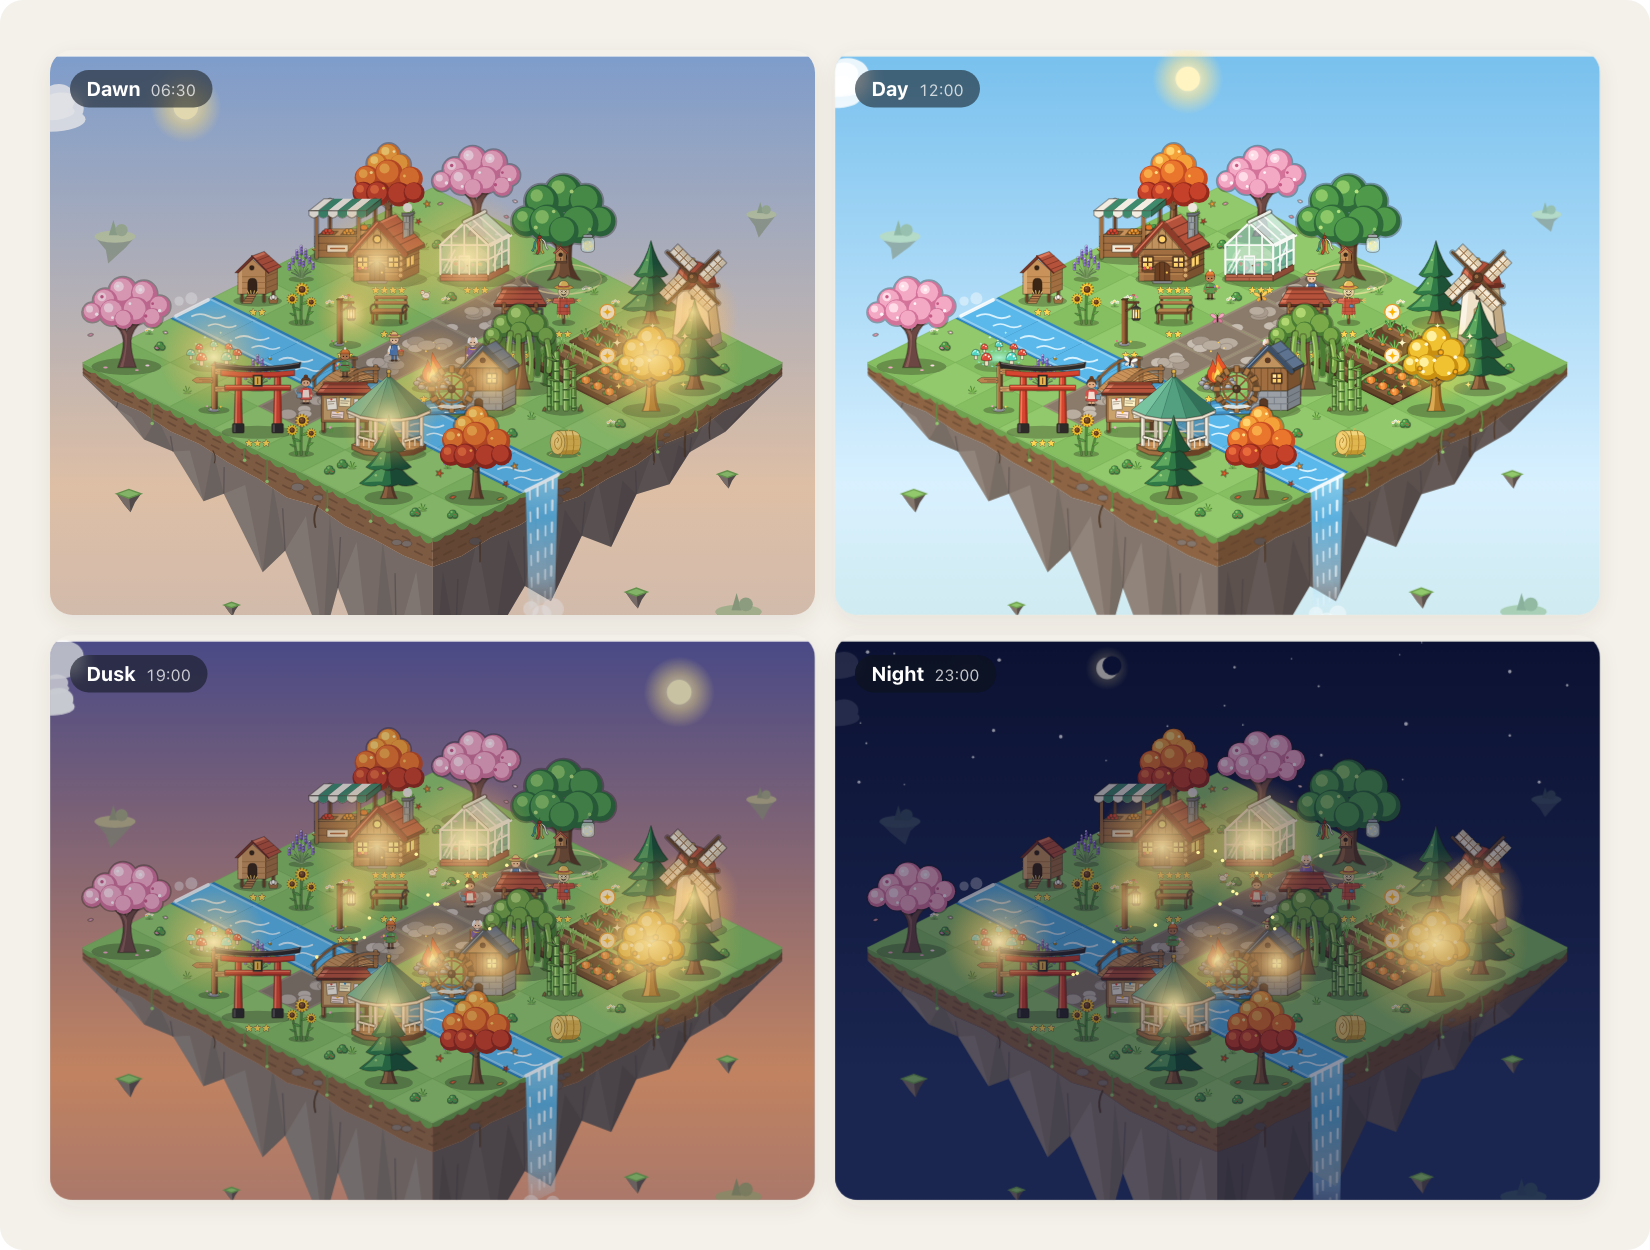
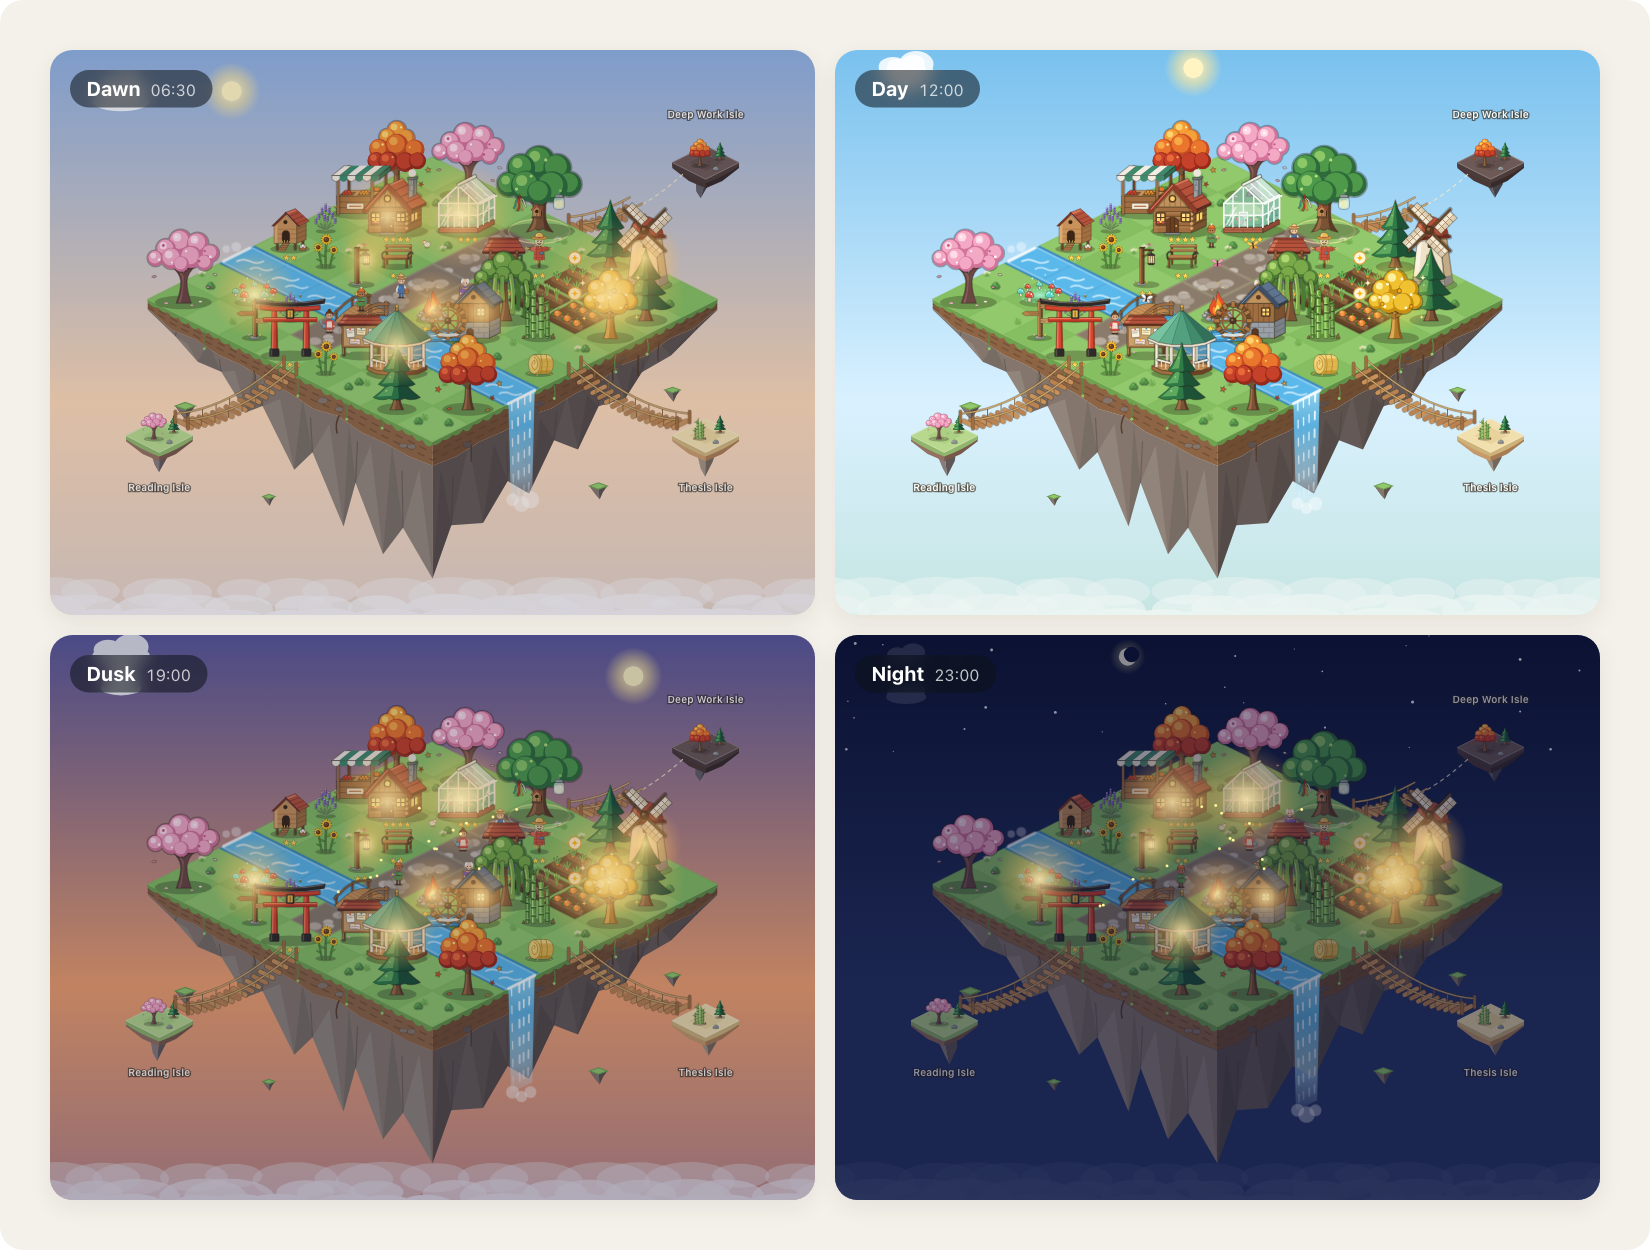
docs: carry the islands through the how-it-works strip and the day cycle
The how-it-works strip gains a fifth step, Explore, showing the bridge
being built toward the next island. The day-to-night animation and the
day-cycle still now show the whole floating village with its rope
bridges and neighbouring isles, as the full-page view does.

Also fixes the screenshot harness, which had rendered the timer without
its dial since the subtasks change: the timer now reads tasks and the
tracker as stores, and the harness passed plain objects.

diff --git a/scripts/readme-images/marketing.ts b/scripts/readme-images/marketing.ts
@@ -9,6 +9,7 @@ import { readable } from 'svelte/store'
 import TimerViewComponent from '../../src/TimerViewComponent.svelte'
 import { activePlantStore } from '../../src/stores'
 import { renderVillage, skyFor } from '../../src/render/VillageScene'
+import { renderArchipelago } from '../../src/render/ArchipelagoMap'
 import { islandLinks } from '../../src/services/Islands'
 import { ICONS, SPECIES_SVGS, VILLAGER_SVGS } from '../../src/assets/floraAssets'
 import { charterLandmark, getBuilding } from '../../src/assets/floraCatalog'
@@ -22,6 +23,9 @@ import { perkTag, stars } from './perk-tags'
 export const MARKETING_SCENES = ['hero', 'loop', 'charter', 'dial']
 
 const COUNT = 25 * 60_000
+/** The timer reads both as stores; the marketing scenes have no task list and no task in focus. */
+export const NO_TASKS = readable({ groups: [], list: [] }) as any
+export const NO_TRACKER = readable({}) as any
 const stageFor = (r: number) => (r >= 0.75 ? 'mature' : r >= 0.5 ? 'sapling' : r >= 0.25 ? 'sprout' : 'seed')
 
 /** Mounts the real timer component and lifts its dial into `slot`. */
@@ -34,7 +38,7 @@ function mountDial(slot: HTMLElement, ratio: number, speciesId = 'sakura') {
     const holder = document.createElement('div')
     holder.style.cssText = 'position:absolute;left:-9999px;top:0;width:356px'
     document.body.appendChild(holder)
-    new TimerViewComponent({ target: holder, props: { timer: timer as any, tasks: {} as any, tracker: {} as any, render: () => {} } })
+    new TimerViewComponent({ target: holder, props: { timer: timer as any, tasks: NO_TASKS, tracker: NO_TRACKER, render: () => {} } })
     slot.appendChild(holder.querySelector('.dial')!)
 }
 
@@ -162,34 +166,40 @@ export function mountMarketing(scene: string, q: URLSearchParams, g: Gamificatio
         const isle: GamificationData = { ...g, landSize: 4, vitality: 92, homestead: mini.map(([t, id, x, y, l], k) => ({ id: `l${k}`, itemType: t as any, itemId: id, gridX: x, gridY: y, level: l ?? 1 })) }
         const svg = renderVillage(isle, { date: at, idPrefix: 'loop', still: true }).replace(/viewBox="([\d.]+) ([\d.]+) ([\d.]+) ([\d.]+)"/, (_, x, y, w, h) => `viewBox="${x} 30 ${w} ${Number(h) - 44}"`)
         const cabin = getBuilding('cabin')!
+        // The archipelago map, tight on home and the bridge being built toward the next island
+        const map = renderArchipelago(g, { date: at, idPrefix: 'loopmap', selected: 'isle_3' })
+            .replace(/viewBox="[^"]+"/, 'viewBox="-64 -116 262 279"').replace('xMidYMid meet', 'xMidYMid slice')
         const chev = `<svg class="chev" viewBox="0 0 24 24"><path d="M9 5l7 7-7 7" fill="none" stroke="#b9ad97" stroke-width="2.4" stroke-linecap="round" stroke-linejoin="round"/></svg>`
         const step = (n: number, name: string, line: string, art: string, cls = '') =>
             `<div class="mk-tile step ${cls}"><div class="art">${art}</div><div class="cap"><span class="n">${n}</span><div><b>${name}</b><span>${line}</span></div></div></div>`
         style(base(W, H, T.paper) + DIAL_CARD + `
             body{padding:${T.margin}px}
-            .row{display:flex;align-items:stretch;gap:8px;margin-top:22px}
-            .step{flex:1;display:flex;flex-direction:column;padding:12px}
+            .row{display:flex;align-items:stretch;gap:6px;margin-top:22px}
+            .step{flex:1 1 0;min-width:0;display:flex;flex-direction:column;padding:10px}
             .art{height:262px;border-radius:12px;display:flex;align-items:center;justify-content:center;position:relative;overflow:hidden}
             .focus .art{background:#1e1e1e}
-            .focus .dial{zoom:1.02}
+            .focus .dial{zoom:.93}
             .grow .art,.perk .art{background:radial-gradient(ellipse 60% 45% at 50% 70%,#e3efd6,transparent 72%)}
-            .grow .tree{width:190px;height:190px;margin-top:-34px}.grow .tree svg{width:100%;height:100%}
-            .loot{position:absolute;bottom:16px;left:0;right:0;display:flex;justify-content:center;gap:6px}
-            .loot span{display:inline-flex;align-items:center;gap:4px;font-size:15px;font-weight:750;padding:5px 11px;border-radius:99px;background:#fff;border:1px solid ${T.line}}
-            .loot svg{width:16px;height:16px}
+            .grow .tree{width:180px;height:180px;margin-top:-34px}.grow .tree svg{width:100%;height:100%}
+            .loot{position:absolute;bottom:16px;left:0;right:0;display:flex;justify-content:center;gap:5px}
+            .loot span{display:inline-flex;align-items:center;gap:4px;font-size:14px;font-weight:750;padding:5px 9px;border-radius:99px;background:#fff;border:1px solid ${T.line}}
+            .loot svg{width:15px;height:15px}
             .loot .sun{color:#d9730d}.loot .coin{color:#a86d10}.loot .xp{color:#6d4fd6}
             .build .art{background:linear-gradient(#86c8ef,#d4eefc)}
-            .build .art svg{width:108%;height:auto;margin-top:6px}
+            .build .art svg{width:112%;height:auto;margin-top:6px}
             .perk .ic{width:150px;height:150px;margin-top:-40px}.perk .ic svg{width:100%;height:100%}
             .perk .badge{position:absolute;bottom:16px;left:0;right:0;display:flex;flex-direction:column;align-items:center;gap:6px}
             .perk .tag{display:inline-flex;align-items:center;gap:6px;font-size:15px;font-weight:700;padding:6px 13px;border-radius:99px;background:#fff;border:1px solid ${T.line};color:#5b4a2a}
             .perk .tag svg{width:16px;height:16px}
+            .explore .art svg{display:block;width:100%;height:100%}
+            .pf-map-name{font:750 10.5px ${FONT};fill:#fff;paint-order:stroke;stroke:rgba(12,24,48,.5);stroke-width:2px;stroke-linejoin:round}
+            .pf-map-sub{font:600 8px ${FONT};fill:#eef6ff;paint-order:stroke;stroke:rgba(12,24,48,.45);stroke-width:1.6px;stroke-linejoin:round}
             .stars{font-size:15px;letter-spacing:2px;color:#e0a526}
-            .cap{display:flex;align-items:center;gap:12px;padding:14px 6px 4px}
-            .cap .n{flex:none;width:30px;height:30px;border-radius:50%;background:${T.green};color:#fff;font-weight:800;font-size:15px;display:flex;align-items:center;justify-content:center}
+            .cap{display:flex;align-items:center;gap:10px;padding:14px 4px 4px}
+            .cap .n{flex:none;width:28px;height:28px;border-radius:50%;background:${T.green};color:#fff;font-weight:800;font-size:14.5px;display:flex;align-items:center;justify-content:center}
             .cap b{display:block;font-size:19px;font-weight:750}
-            .cap span{font-size:14.5px;color:${T.muted}}
-            .chev{width:24px;height:24px;flex:none;align-self:center;margin-top:-50px}
+            .cap span{font-size:14px;color:${T.muted};white-space:nowrap}
+            .chev{width:22px;height:22px;flex:none;align-self:center;margin-top:-50px}
             .back{display:flex;align-items:center;gap:8px;position:absolute;right:${T.margin}px;top:${T.margin + 6}px;font-size:14px;font-weight:650;color:${T.muted}}
             .back svg{width:18px;height:18px}
             `)
@@ -198,9 +208,10 @@ export function mountMarketing(scene: string, q: URLSearchParams, g: Gamificatio
             <div class="back">${loop}Every session feeds the next</div>
             <div class="row">
             ${step(1, 'Focus', 'Start a session on a task', '<div class="dialcard-free" id="dial"></div>', 'focus')}${chev}
-            ${step(2, 'Harvest', 'A finished session grows a tree', `<div class="tree">${SPECIES_SVGS.sakura}</div><div class="loot"><span class="sun">+84 ${ICONS.sunlight}</span><span class="coin">+7 ${ICONS.coin}</span><span class="xp">+74 XP</span></div>`, 'grow')}${chev}
+            ${step(2, 'Harvest', 'Every session grows a tree', `<div class="tree">${SPECIES_SVGS.sakura}</div><div class="loot"><span class="sun">+84 ${ICONS.sunlight}</span><span class="coin">+7 ${ICONS.coin}</span><span class="xp">+74 XP</span></div>`, 'grow')}${chev}
             ${step(3, 'Build', 'Plant trees, raise buildings', svg, 'build')}${chev}
-            ${step(4, 'Level up', 'Perks boost every session', `<div class="ic">${cabin.iconSvg}</div><div class="badge">${stars(cabin.maxLevel)}<span class="tag">${perkTag(cabin)}</span></div>`, 'perk')}
+            ${step(4, 'Level up', 'Perks boost every session', `<div class="ic">${cabin.iconSvg}</div><div class="badge">${stars(cabin.maxLevel)}<span class="tag">${perkTag(cabin)}</span></div>`, 'perk')}${chev}
+            ${step(5, 'Explore', 'Bridge out to new islands', map, 'explore')}
             </div>`
         mountDial(document.getElementById('dial')!, 0.62)
     }

diff --git a/scripts/readme-images/compose.ts b/scripts/readme-images/compose.ts
@@ -20,8 +20,6 @@ import { perkTag, stars } from './perk-tags'
 const out = process.argv[2]
 const at = (h: number, m = 0) => { const d = new Date(); d.setHours(h, m, 0, 0); return d }
 const write = (name: string, html: string) => fs.writeFileSync(`${out}/${name}.html`, html)
-/** Crop a scene SVG to part of its viewBox (in scene units). */
-const crop = (svg: string, x: number, y: number, w: number, h: number) => svg.replace(/viewBox="[^"]+"/, `viewBox="${x} ${y} ${w} ${h}"`)
 
 // ---------------------------------------------------------------- growth: one tree, four stages, and what giving up costs
 {
@@ -86,7 +84,9 @@ const crop = (svg: string, x: number, y: number, w: number, h: number) => svg.re
 {
     const g = village()
     const cells: [string, string, Date][] = [['Dawn', '06:30', at(6, 30)], ['Day', '12:00', at(12)], ['Dusk', '19:00', at(19)], ['Night', '23:00', at(23)]]
-    const html = cells.map(([t, clock, d], i) => `<div class="cell">${crop(renderVillage(g, { date: d, idPrefix: `dc${i}`, still: true }), 0, 6, 560, 392)}<div class="tag"><b>${t}</b><span>${clock}</span></div></div>`).join('')
+    // As the full-page village shows it: the bridges and the islands they lead to stay in frame
+    const links = islandLinks(g, null)
+    const html = cells.map(([t, clock, d], i) => `<div class="cell">${renderVillage(g, { date: d, idPrefix: `dc${i}`, still: true, links }).replace('xMidYMid meet', 'xMidYMid slice')}<div class="tag"><b>${t}</b><span>${clock}</span></div></div>`).join('')
     write('day-cycle', page(1320, 1000, `
         body{padding:${T.margin}px;display:grid;grid-template-columns:1fr 1fr;gap:16px}
         .cell{position:relative;border-radius:${T.radius}px;overflow:hidden;height:452px;box-shadow:0 6px 18px rgba(60,45,20,.08)}
@@ -190,13 +190,16 @@ const crop = (svg: string, x: number, y: number, w: number, h: number) => svg.re
 // ---------------------------------------------------------------- frames for village-day.gif: one day, dawn to night
 {
     const g = village()
+    // The whole scene with its bridges, as the full-page village shows it
+    const links = islandLinks(g, null)
+    const [, , DAY_W, DAY_H] = renderVillage(g, { still: true, links }).match(/viewBox="([^"]+)"/)![1].split(' ').map(Number)
     const frames: number[] = []
     for (let m = 5 * 60; m <= 23 * 60 + 30; m += 30) frames.push(m)
     frames.forEach((m, i) => {
-        const svg = crop(renderVillage(g, { date: at(Math.floor(m / 60), m % 60), idPrefix: `vd${i}`, still: true }), 0, 6, 560, 392)
-        write(`village-day-${String(i).padStart(2, '0')}`, page(560, 392, `svg{display:block;width:560px;height:392px}`, `<style>${SCENE_CSS}</style>${svg}`))
+        const svg = renderVillage(g, { date: at(Math.floor(m / 60), m % 60), idPrefix: `vd${i}`, still: true, links })
+        write(`village-day-${String(i).padStart(2, '0')}`, page(DAY_W, DAY_H, `svg{display:block;width:${DAY_W}px;height:${DAY_H}px}`, `<style>${SCENE_CSS}</style>${svg}`))
     })
-    fs.writeFileSync(`${out}/village-day.json`, JSON.stringify(frames.length))
+    fs.writeFileSync(`${out}/village-day.json`, JSON.stringify({ frames: frames.length, w: DAY_W, h: DAY_H }))
 }
 // ---------------------------------------------------------------- frames for bridge.gif: focus lays the bridge, the island is reached, the next one appears
 {

diff --git a/scripts/readme-images/harness.ts b/scripts/readme-images/harness.ts
@@ -19,7 +19,7 @@ import type { PlacedHomesteadItem, RewardEvent } from '../../src/types/forest'
 import { SCENE_CSS } from '../../src/render/sceneCss'
 import { village } from './sample-data'
 import { mountBoard } from './board-scene'
-import { MARKETING_SCENES, mountMarketing } from './marketing'
+import { MARKETING_SCENES, NO_TASKS, NO_TRACKER, mountMarketing } from './marketing'
 
 // main.ts injects this once for every view in the real plugin
 document.head.appendChild(Object.assign(document.createElement('style'), { textContent: SCENE_CSS }))
@@ -147,7 +147,7 @@ if (MARKETING_SCENES.includes(scene)) {
     const idle = scene !== 'sidebar'
     new TimerViewComponent({
         target: app,
-        props: { timer: cloneTimer(idle ? 0 : ratio * 25 * 60000, !idle, !idle) as any, tasks: {} as any, tracker: {} as any, render: () => {} },
+        props: { timer: cloneTimer(idle ? 0 : ratio * 25 * 60000, !idle, !idle) as any, tasks: NO_TASKS, tracker: NO_TRACKER, render: () => {} },
     })
 } else if (scene === 'tasks') {
     mountTasks()

diff --git a/README.md b/README.md
@@ -22,7 +22,7 @@ A Pomodoro timer for Obsidian where every session grows a tree, and every tree g
 It's made for brains that tune out a plain countdown and give up on apps that punish a bad week. Progress is something you can see, rewards land the moment a session ends, and nothing you build is ever taken away.
 
 <p align="center">
-  <img src="docs/images/how-it-works.png" alt="How it works: focus on a task, harvest a tree with Sunlight, Coins and XP, build your village, and upgrade buildings whose perks boost every session" width="100%">
+  <img src="docs/images/how-it-works.png" alt="How it works: focus on a task, harvest a tree with Sunlight, Coins and XP, build your village, upgrade buildings whose perks boost every session, and bridge out to new islands" width="100%">
 </p>
 
 ## Watch it grow
@@ -66,7 +66,7 @@ Spend Sunlight and Coins on buildings with real perks, plant the saplings you ha
 
 <table>
   <tr>
-    <td width="62%" valign="top"><img src="docs/images/village-day.gif" alt="The same village passing from dawn through day and dusk to night"></td>
+    <td width="62%" valign="top"><img src="docs/images/village-day.gif" alt="The village and the islands bridged to it, passing from dawn through day and dusk to night"></td>
     <td width="38%" valign="top"><img src="docs/images/panel-heart-tree.png" alt="The Heart Tree card: stage and bond, today's need with a Tend button, the satchel of care items and the ornament collection"></td>
   </tr>
   <tr>
